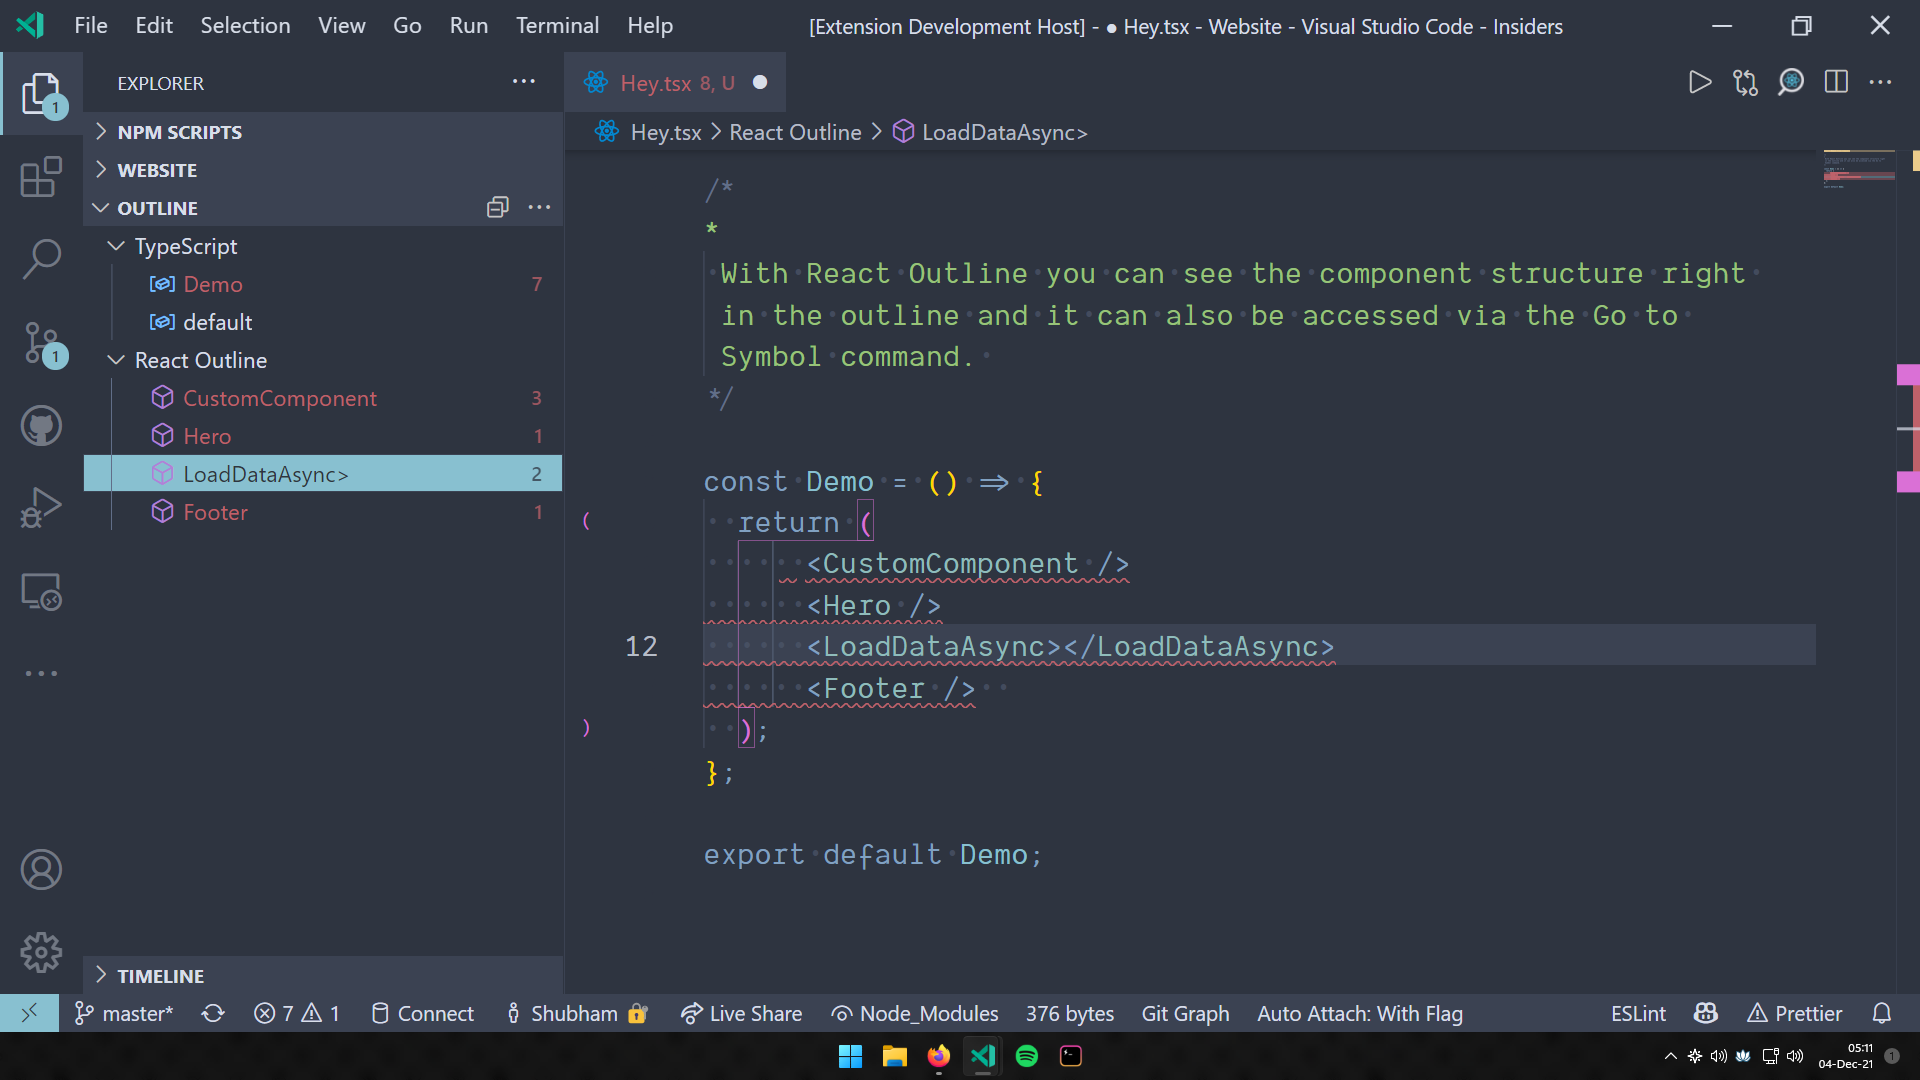
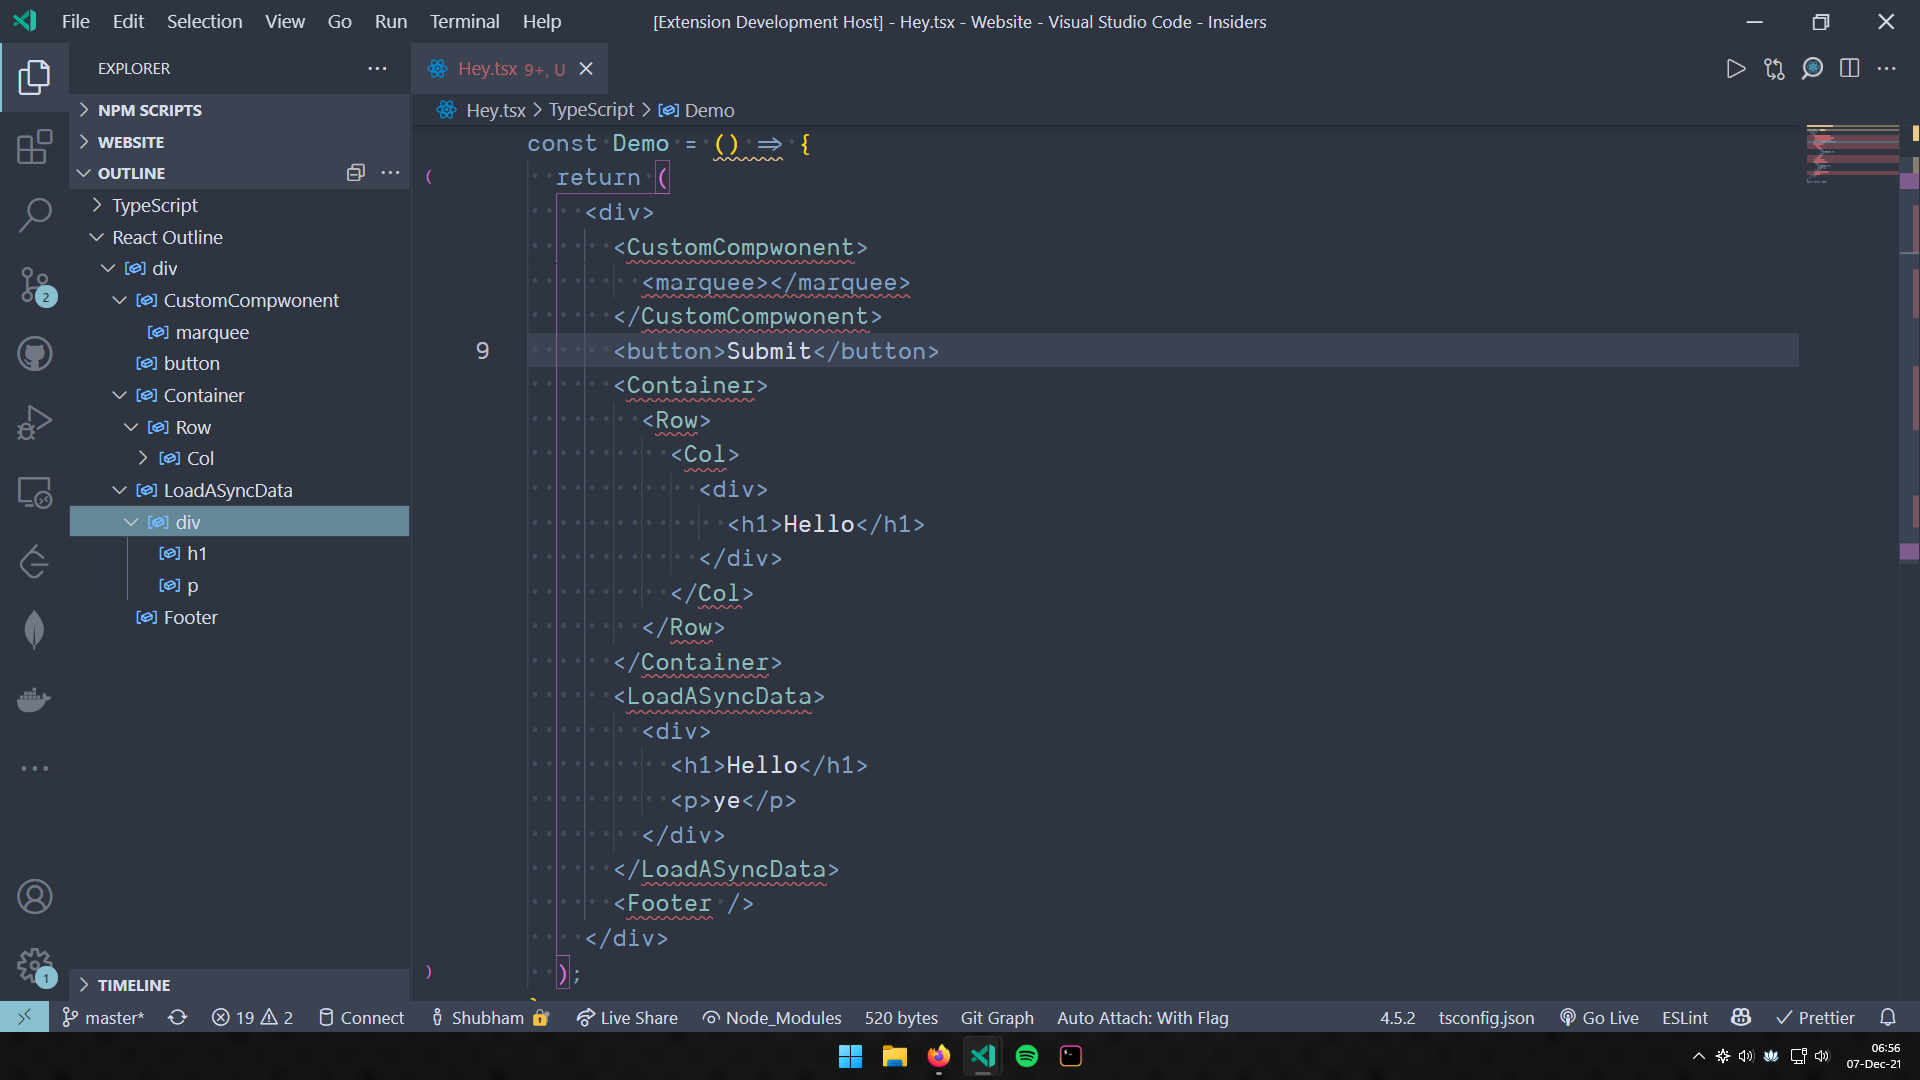
new version for single component nested outline

diff --git a/CHANGELOG.md b/CHANGELOG.md
@@ -7,3 +7,12 @@
 ## [1.0.1]
 
 - Added Icons
+
+## [1.0.2]
+
+- Using Babel Parser
+- Added support for Nested Outline for Single Componenet
+
+  - Currently not supported for Fragments,Expressions and multiple components
+
+- New Icon
